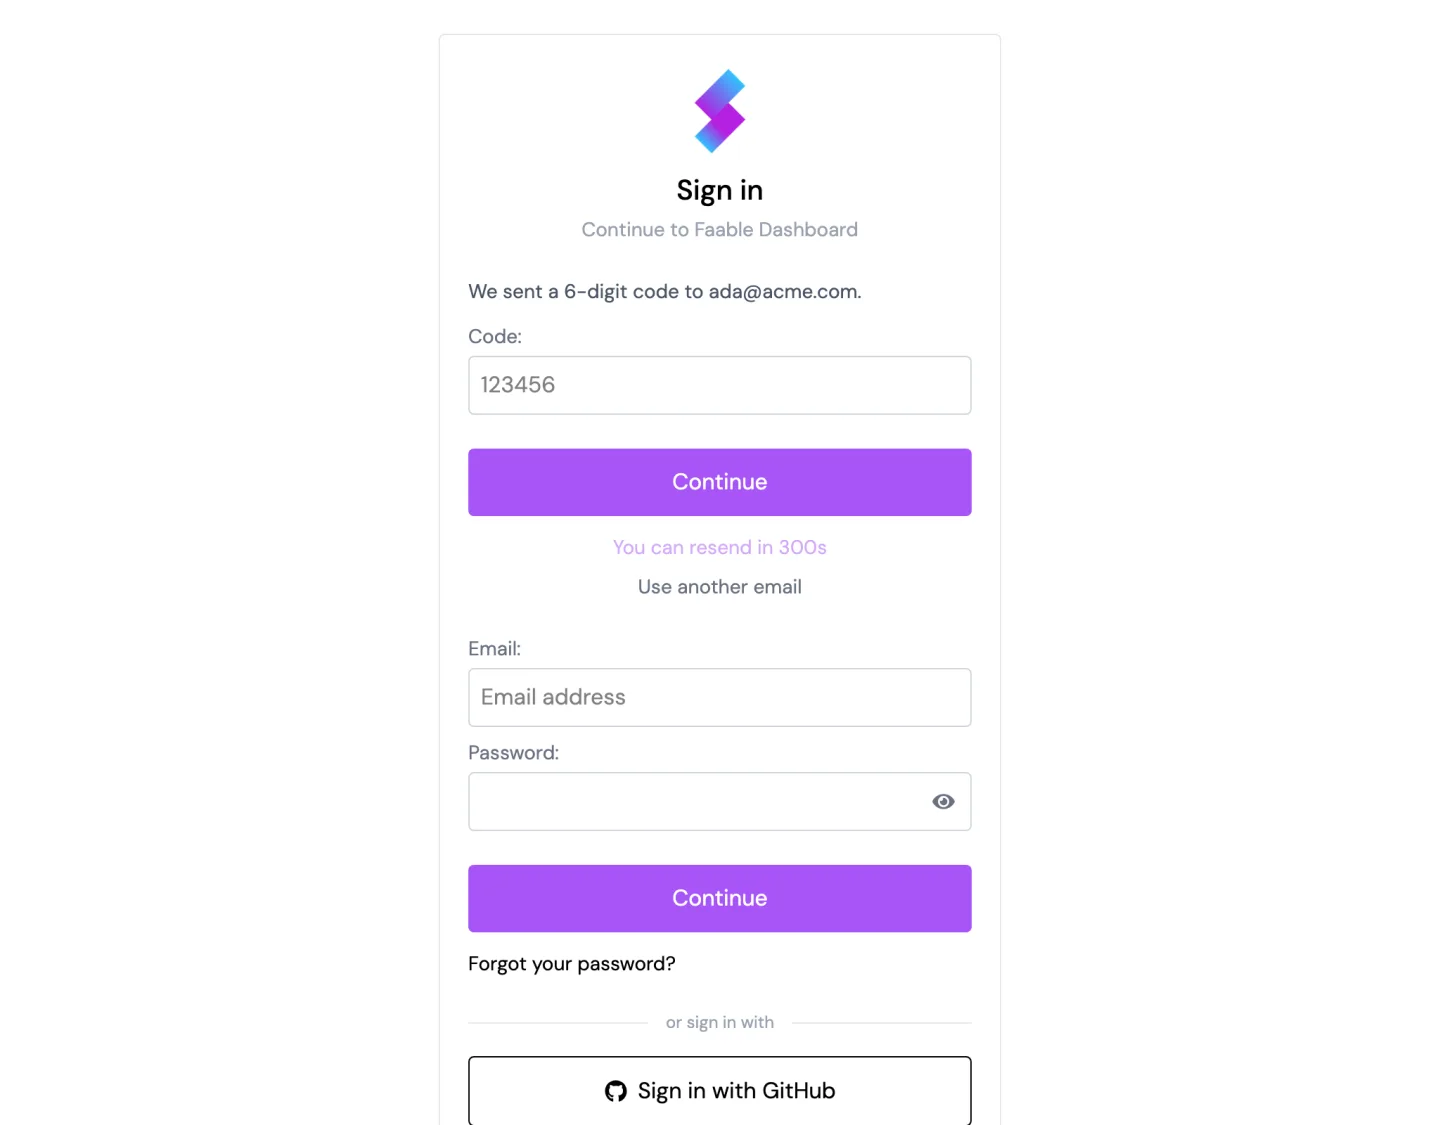
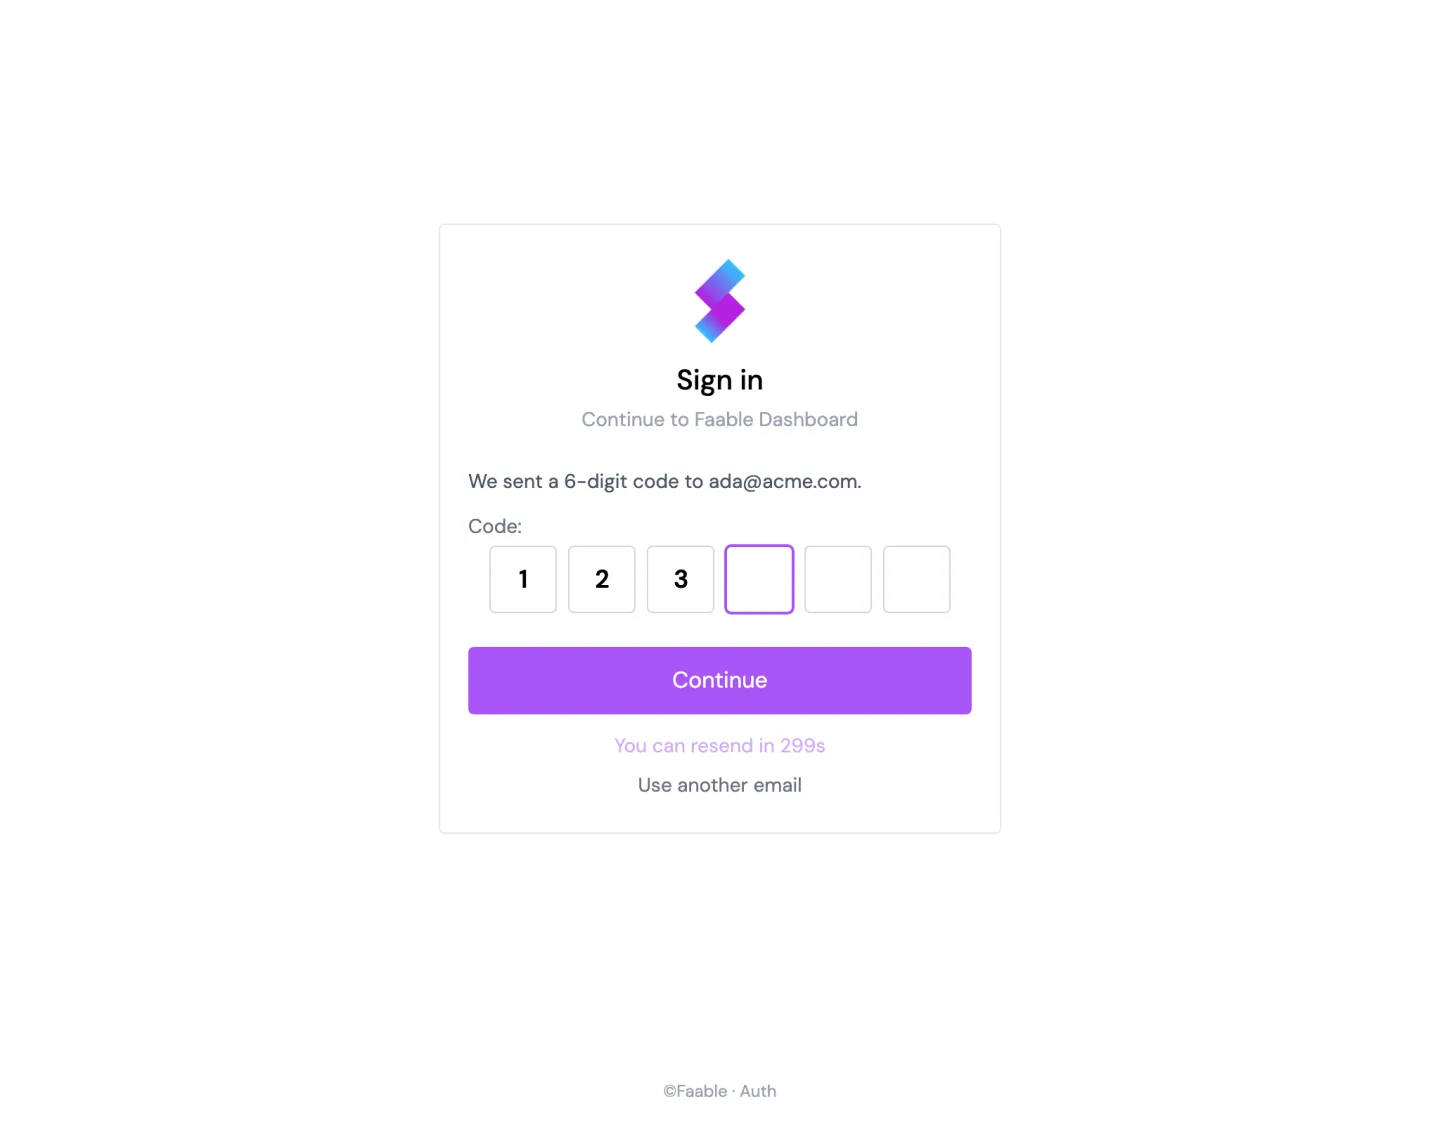
docs(auth): login_methods, and the code step with one box per digit
Hosted Login UI gets "Showing only some methods": login_methods on
/authorize (auth-js loginMethods, 2.10+), and how it differs from
connection — one narrows the screen, the other skips it. Login Experience
points to it from the per-client overrides.

The "Sign in with an email code" capture is retaken through
login_methods, so it shows only the emailed-code block, with the new
code input that signs in on the sixth digit.

diff --git a/content/auth/login-experience.md b/content/auth/login-experience.md
@@ -115,6 +115,8 @@ Every setting on this page is a tenant default that a client can override for it
 
 That is enough for the common split: the consumer app offers passwords and Google with a passkey invitation; the admin app offers only the corporate connection and [requires two-step verification](mfa.md#turning-it-on). For anything beyond flipping settings — different screens, conditions on who sees what — see [Login Flows](login-flows.md).
 
+To show fewer methods for one particular login without changing the client — only the emailed code on a checkout page, say — pass `login_methods` to `/authorize`. See [Showing only some methods](hosted-login.mdx#showing-only-some-methods).
+
 ## Related
 
 - [Two-Step Verification](mfa.md) — authenticator apps, security keys and passkeys as a second factor.
